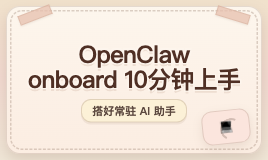
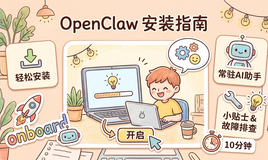
Site updated: 2026-03-23 20:33:30

diff --git a/2026/03/23/openclaw-onboard-guide/index.html b/2026/03/23/openclaw-onboard-guide/index.html
@@ -33,7 +33,7 @@
 <meta property="og:locale" content="zh_CN">
 <meta property="og:image" content="https://blog.fxcxy.com/img/openclaw-onboard-guide.png">
 <meta property="article:published_time" content="2026-03-22T22:07:36.000Z">
-<meta property="article:modified_time" content="2026-03-22T22:11:26.735Z">
+<meta property="article:modified_time" content="2026-03-23T12:27:54.844Z">
 <meta property="article:author" content="spatacus">
 <meta property="article:tag" content="AI工具">
 <meta property="article:tag" content="OpenClaw">
@@ -333,6 +333,8 @@
 <p>很多人第一次接触这类 AI Agent 工具，都会在几个地方反复踩坑：Node 版本不对、装完不知道该先跑什么、Gateway 状态没确认、升级后配置没迁移、明明命令能执行但助手就是不稳定。结果不是能力不够，而是第一条链路没有跑顺。</p>
 <p>这篇文章就只解决一件事：<strong>用 OpenClaw 官方推荐的 onboard 流程，把一个能长期运行的个人 AI 助手搭起来，并顺手把后续升级避坑一起讲清楚。</strong> 如果你想要的是一套今天就能用、后面还能继续扩展到 Telegram、Slack、Discord 等渠道的方案，这一篇正好适合。</p>
 <h2 id="为什么很多人安装了-OpenClaw，还是很快放弃？"><a href="#为什么很多人安装了-OpenClaw，还是很快放弃？" class="headerlink" title="为什么很多人安装了 OpenClaw，还是很快放弃？"></a>为什么很多人安装了 OpenClaw，还是很快放弃？</h2><p>表面上看，OpenClaw 的安装并不复杂。官方给了安装脚本，也提供了 Getting Started、Updating、Channels 等文档，README 里甚至直接写明了推荐路径：**优先运行 <code>openclaw onboard</code>**。</p>
+<img src="/2026/03/23/openclaw-onboard-guide/inline-01-openclaw.png" srcset="/img/loading.gif" lazyload class="" title="为什么很多人安装了 OpenClaw，还是很快放弃 示意图">
+
 <p>但真正让新手放弃的，通常不是某一条命令报错，而是下面这几个问题叠在一起：</p>
 <ul>
 <li>不知道自己当前 Node 版本是否满足要求</li>
@@ -343,6 +345,8 @@
 </ul>
 <p>如果你把 OpenClaw 只当成“终端里运行一次的聊天工具”，体验通常不会稳定。因为从官方设计来看，它更像一套<strong>运行在你自己设备上的个人 AI 助手控制平面</strong>：CLI 只是入口，真正长期工作的，是 Gateway、渠道接入、模型配置和后续技能能力。</p>
 <h2 id="OpenClaw-的推荐安装路径，到底是什么？"><a href="#OpenClaw-的推荐安装路径，到底是什么？" class="headerlink" title="OpenClaw 的推荐安装路径，到底是什么？"></a>OpenClaw 的推荐安装路径，到底是什么？</h2><p>基于官方 README 和 Getting Started 页面，可以先把结论说清楚：</p>
+<img src="/2026/03/23/openclaw-onboard-guide/inline-02-openclaw-2.png" srcset="/img/loading.gif" lazyload class="" title="OpenClaw 的推荐安装路径，到底是什么 示意图">
+
 <ol>
 <li>运行环境优先用 <strong>Node 24</strong>，兼容下限是 <strong>Node 22.16+</strong></li>
 <li>安装完成后，不要自己东拼西凑命令，优先跑：</li>
